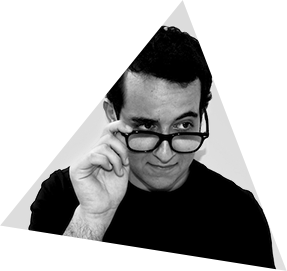
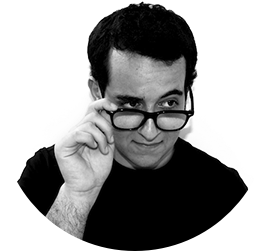
albert image in circle

diff --git a/index.html b/index.html
@@ -5,7 +5,7 @@ layout: home
 <div class="home">
   
   <div class="home-bg-image">
-    <img src="/assets/images/b + Triangle 1.png">
+    <img src="/assets/images/albert-bellonch.png">
   </div>
 
   <div class="main-intro">

diff --git a/css/main.scss b/css/main.scss
@@ -117,9 +117,9 @@ body.home_page{
 }
 .home-bg-image{
     position: absolute;
-    right: 23%;
-    top: 0px;
-    opacity: 0.8;
+    right: 22%;
+    top: 10px;
+    opacity: 0.4;
 }
 .main-intro{
     position: relative;
